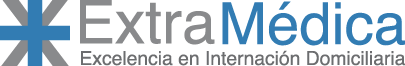
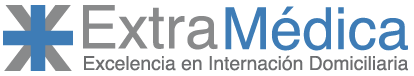
agregado de extramedica y saludenelhogar

diff --git a/clients.html b/clients.html
@@ -389,8 +389,8 @@
 						<div class="image_skin_anime" style="width:280px; height:150px;">
 
 							<div class="image_holder" lang="zoom_image" style="width:280px; height:150px;">
-								<a href="images/clients/logoanses.png" rel="prettyPhoto[gallery]">
-									<img src="images/clients/logoanses.png" width="280" height="150" alt=""/>
+								<a href="images/clients/extramedica.png" rel="prettyPhoto[gallery]">
+									<img src="images/clients/extramedica.png" width="280" height="150" alt=""/>
 								</a>
 							</div>
 
